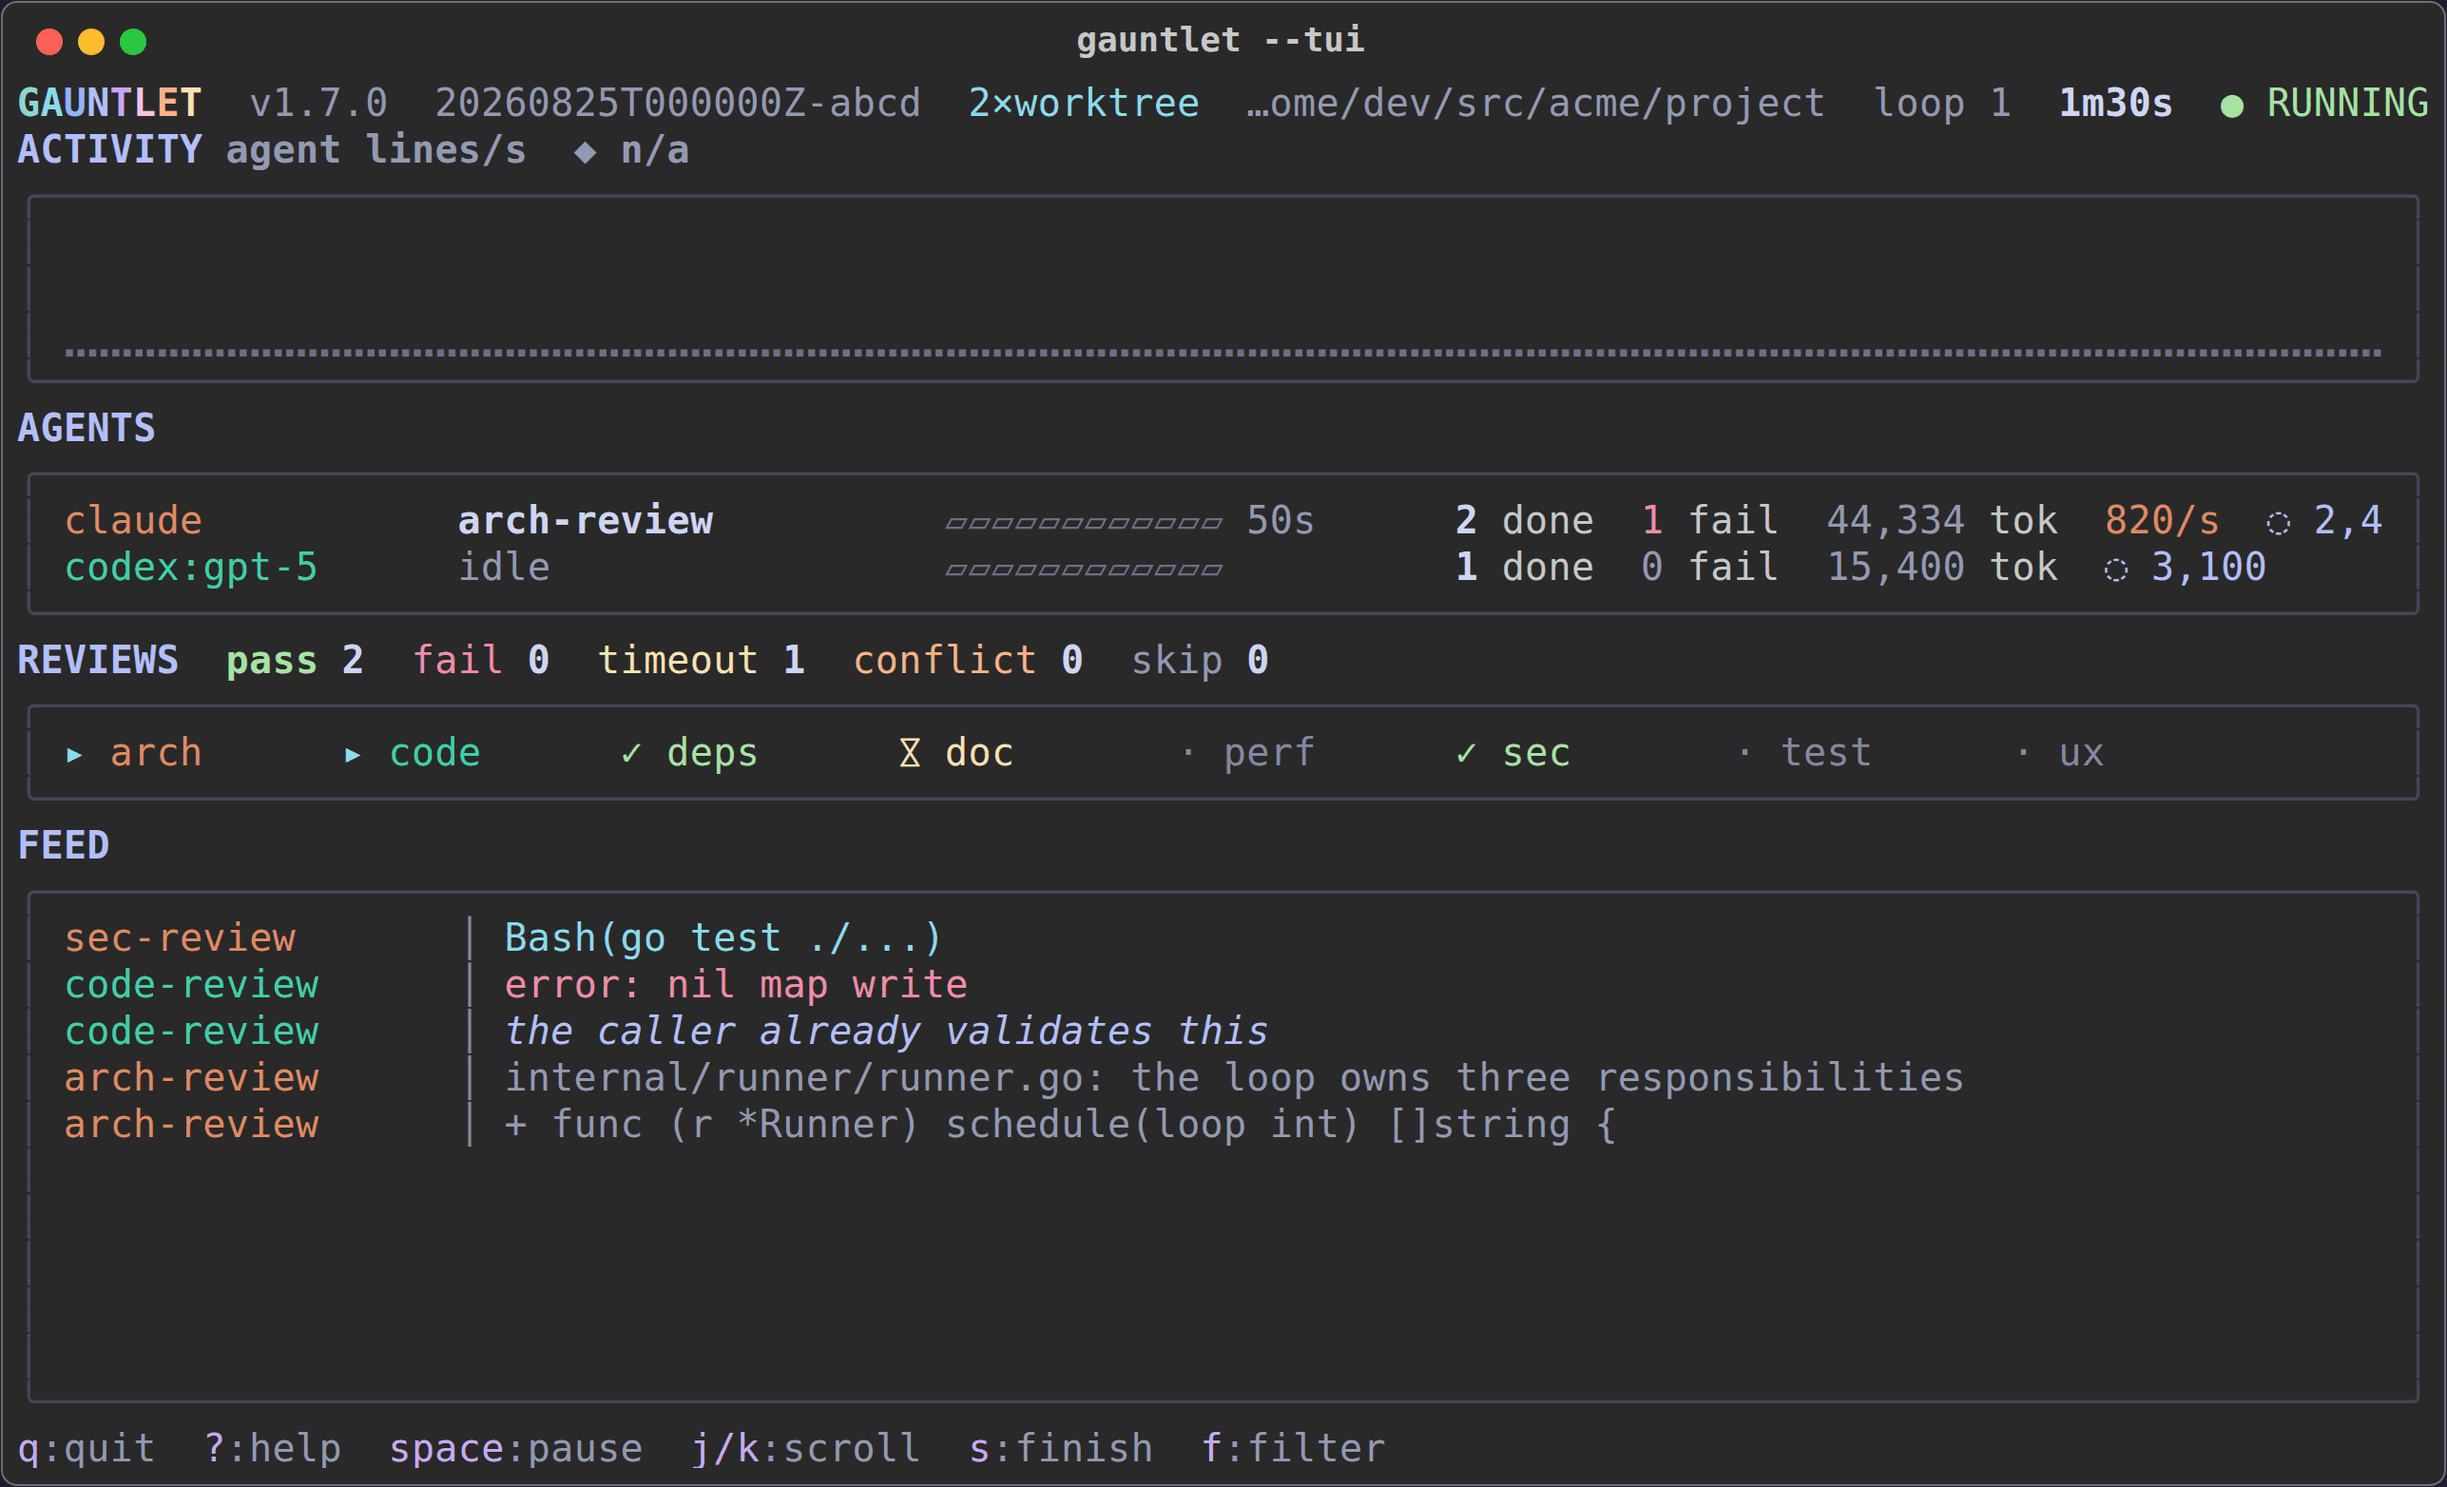
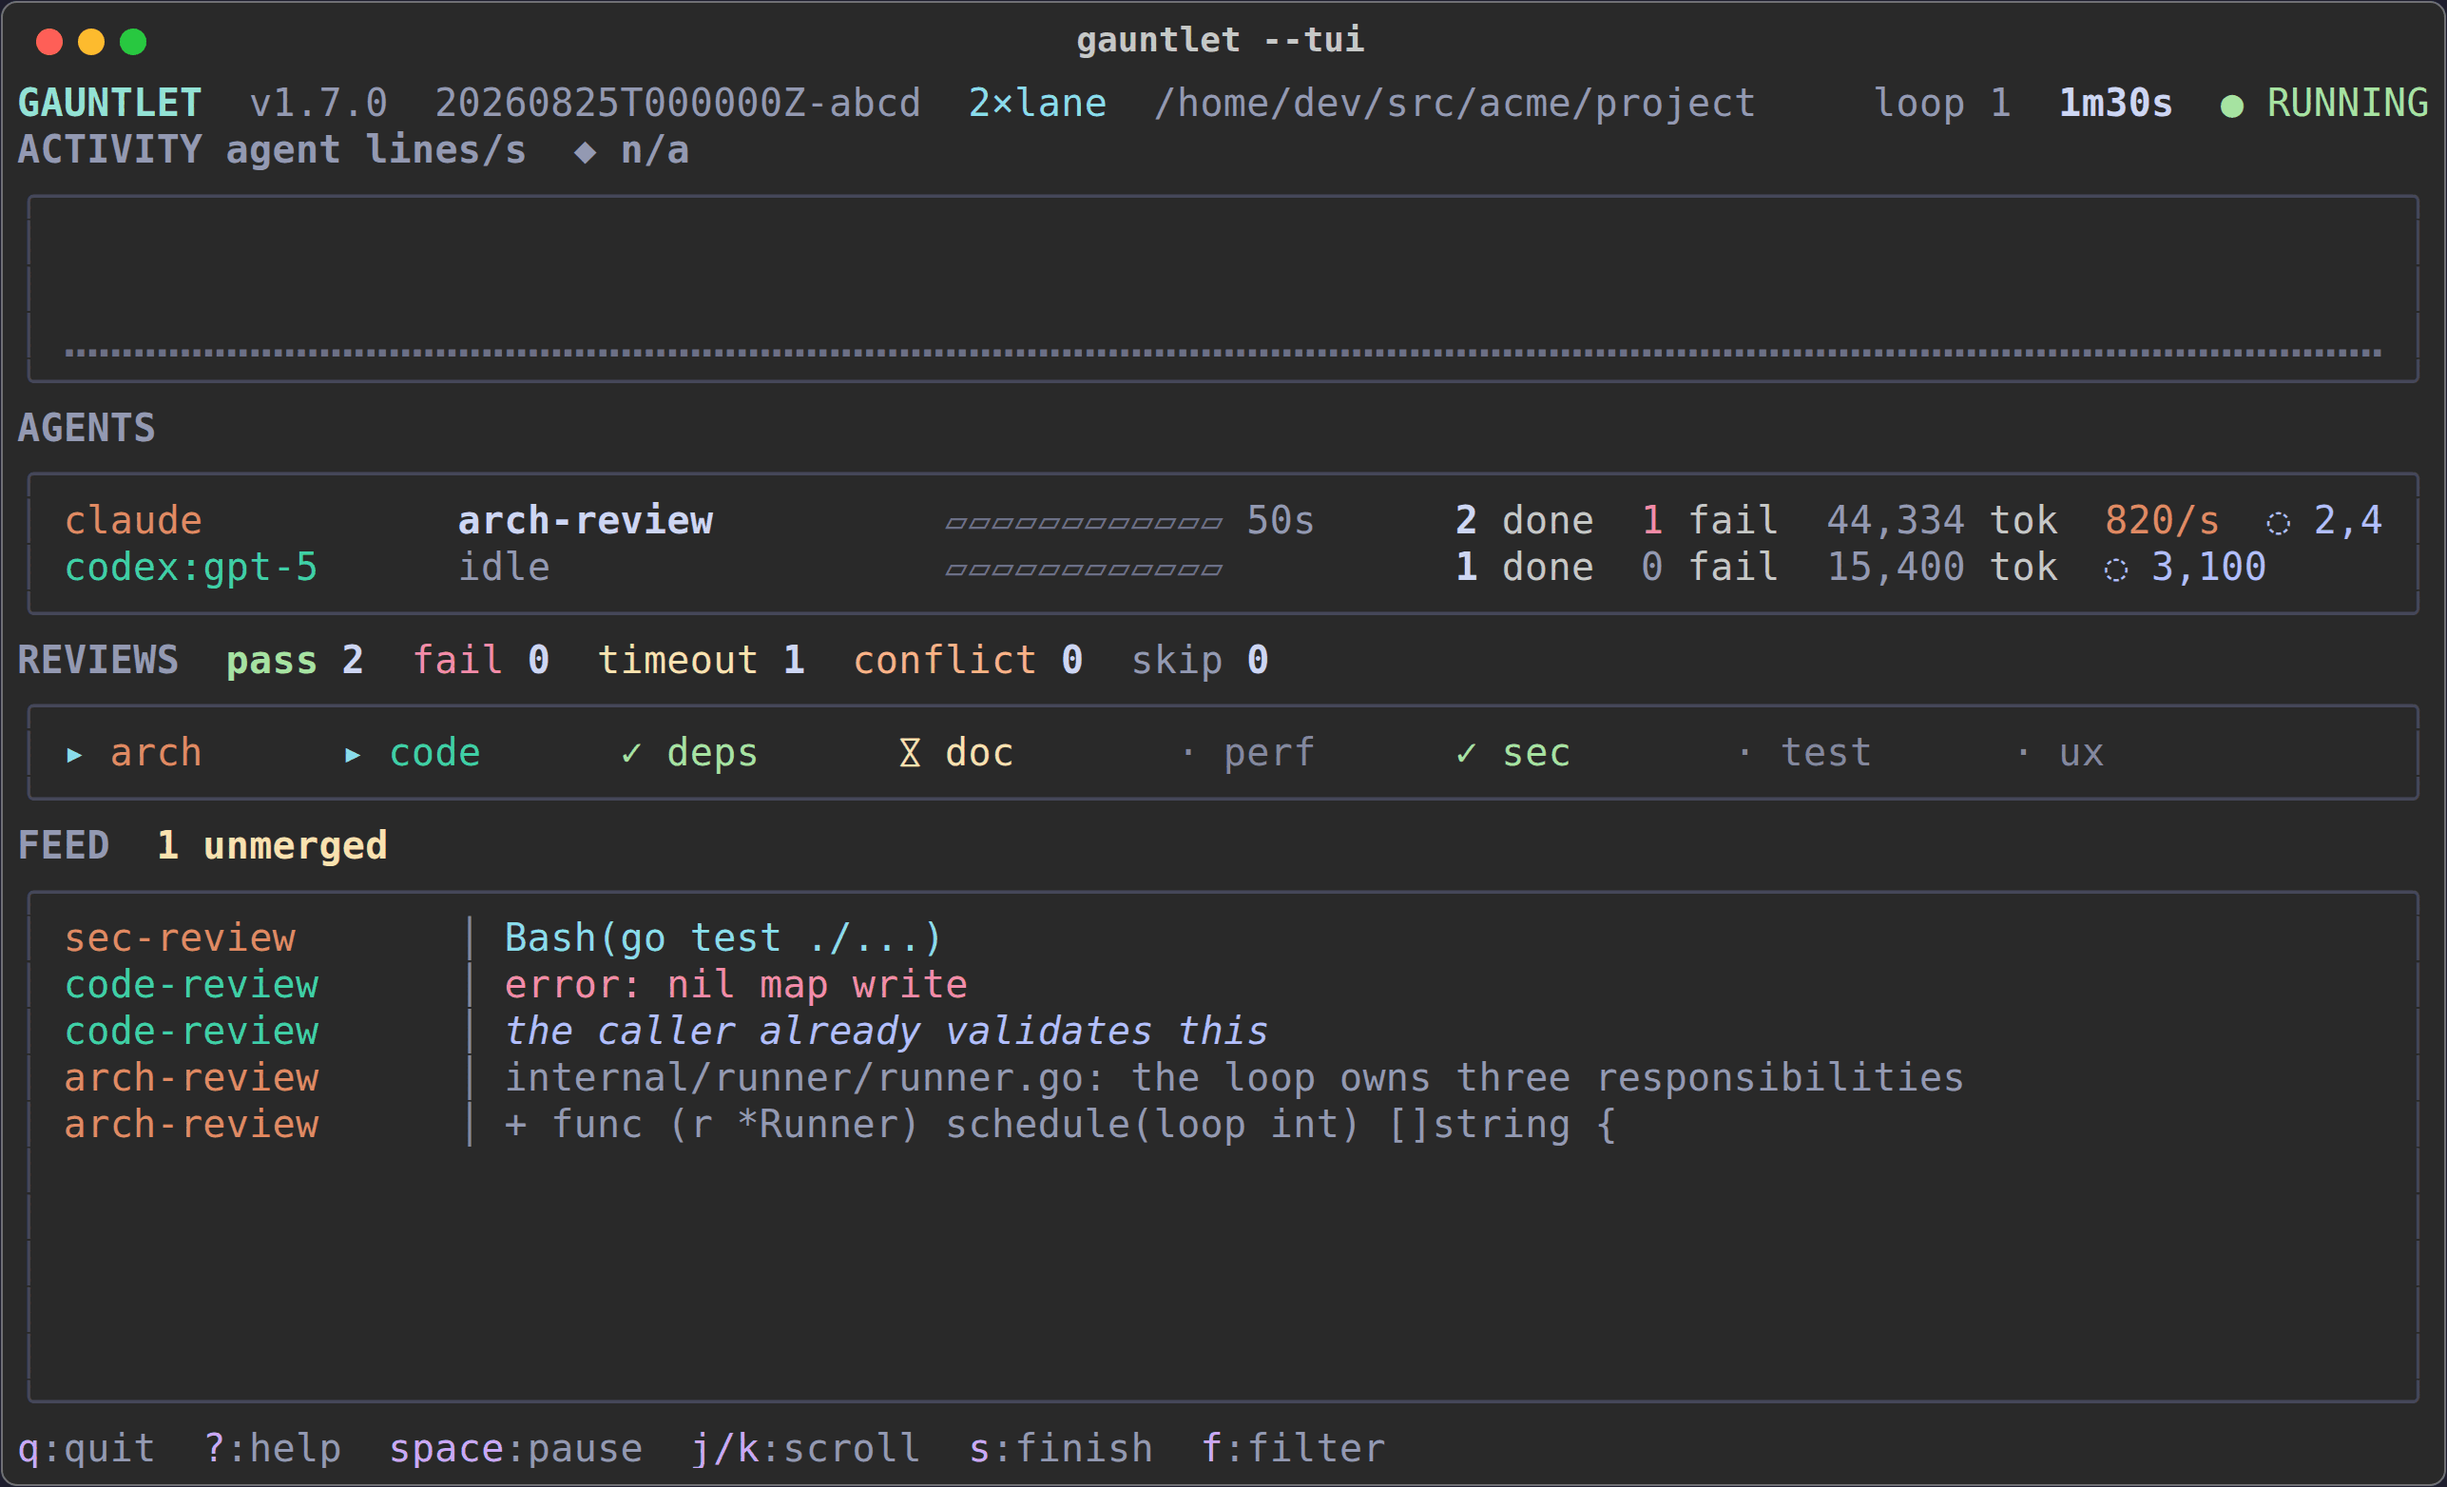
chore: update CHANGELOG.md and 5 other files

diff --git a/internal/ui/theme.go b/internal/ui/theme.go
@@ -50,7 +50,9 @@ func adaptive(light, dark string) lipgloss.AdaptiveColor {
 }
 
 var (
-	styleTitle = lipgloss.NewStyle().Bold(true).Foreground(cLavender)
+	// Panel names are chrome: live values inside the title stay independently
+	// colored, and the label itself stays dim so it never competes with them.
+	styleTitle = lipgloss.NewStyle().Bold(true).Foreground(cDim)
 	styleDim   = lipgloss.NewStyle().Foreground(cDim)
 	styleFaint = lipgloss.NewStyle().Foreground(cFaint)
 	styleTrack = lipgloss.NewStyle().Foreground(cTrack)
@@ -262,13 +264,7 @@ func heatColor(f float64) lipgloss.TerminalColor {
 	}
 }
 
-// wordmark renders the logo once, with a cyan to peach gradient.
-var wordmark = sync.OnceValue(func() string {
-	letters := []rune("GAUNTLET")
-	colors := []lipgloss.AdaptiveColor{cTeal, cCyan, cBlue, cLavender, cMagenta, cPink, cPeach, cYellow}
-	var b strings.Builder
-	for i, l := range letters {
-		b.WriteString(lipgloss.NewStyle().Bold(true).Foreground(colors[i%len(colors)]).Render(string(l)))
-	}
-	return b.String()
-})
+// wordmark is the name in the brand teal of the path-arrow in assets/mark.svg.
+func wordmark() string {
+	return lipgloss.NewStyle().Bold(true).Foreground(cTeal).Render("GAUNTLET")
+}

diff --git a/internal/ui/ui_test.go b/internal/ui/ui_test.go
@@ -560,6 +560,19 @@ func TestThemeClearsWCAGContrastFloors(t *testing.T) {
 	}
 }
 
+// The wordmark is the brand teal, one hue: the README logos are a single-color
+// name next to a teal path-arrow, and a per-letter gradient would be a color
+// the mark does not use.
+func TestWordmarkIsTheBrandTeal(t *testing.T) {
+	want := lipgloss.NewStyle().Bold(true).Foreground(cTeal).Render("GAUNTLET")
+	if got := wordmark(); got != want {
+		t.Fatalf("wordmark is not the brand teal:\n got %q\nwant %q", got, want)
+	}
+	if got := stripANSI(wordmark()); got != "GAUNTLET" {
+		t.Fatalf("wordmark text = %q, want GAUNTLET", got)
+	}
+}
+
 func contrastRatio(t *testing.T, fg, bg string) float64 {
 	t.Helper()
 	a, b := wcagLuminance(t, fg), wcagLuminance(t, bg)

diff --git a/docs/DESIGN.md b/docs/DESIGN.md
@@ -461,7 +461,8 @@ Design points:
 Follows the TMOG dashboard rules: a cockpit, not a report.
 
 - The whole state fits one screen: lanes, review grid, throughput, feed.
-- Live data is bright; grid, borders, and chrome stay dim.
+- Live data is bright; grid, borders, panel names, and chrome stay dim.
+- The wordmark is the brand teal of the path-arrow in the mark, one hue.
 - One hue per agent, used for its lane, its rows, and its trace everywhere.
 - Colors adapt to the terminal's background: Catppuccin Latte on light
   terminals, Mocha on dark ones. The pairs are pinned by test to WCAG 2.2 AA:

diff --git a/CHANGELOG.md b/CHANGELOG.md
@@ -29,6 +29,8 @@ minor instead and were listed under Changed.
 
 ### Changed
 
+- Dashboard and launcher wordmark is the brand teal of the mark, one hue,
+  not a per-letter gradient. Panel names stay dim with the rest of the chrome.
 - Bundled review prompts: integer-width and abbreviation rules no longer
   rewrite language-idiomatic types and names; post-quantum crypto items are
   note-only; Kubernetes-native checks skip Dockerfile-only trees; docs-vs-code
